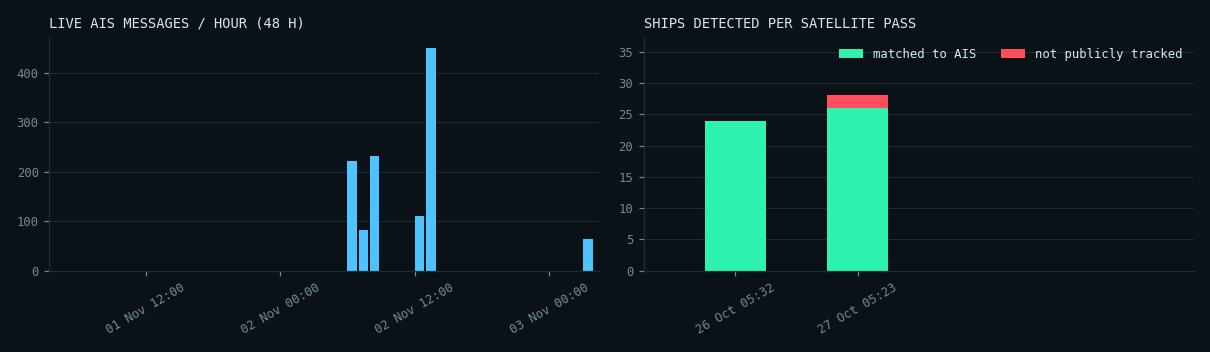
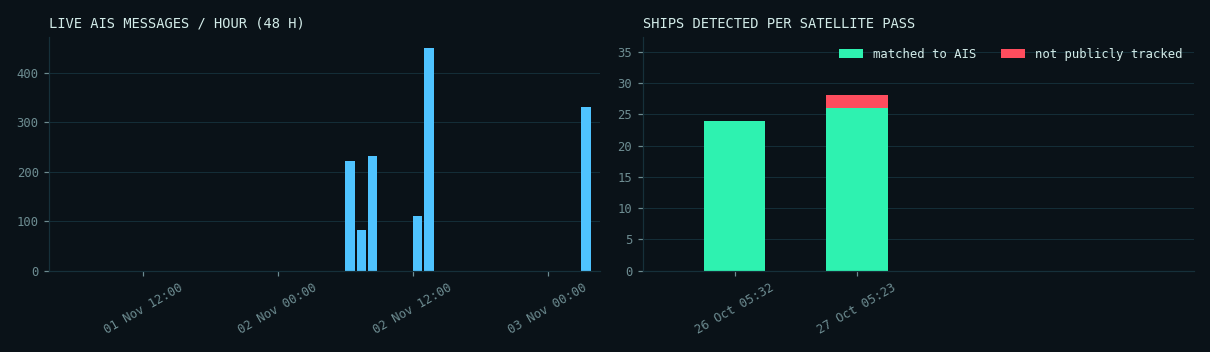
Automatic site update 2026-11-03 03:39 UTC

diff --git a/docs/denmark/index.html b/docs/denmark/index.html
@@ -83,13 +83,13 @@ footer{border-top:1px solid var(--line);padding:18px 0 28px;font:12px/1.6 var(--
   <div><div class="kicker">SAR &times; AIS &middot; MARITIME AWARENESS</div><div class="title">DARK VESSEL <b>DETECTION</b></div></div></a>
  <div class="status"><span class="pill"><span class="dot live"></span>AIS FEED <strong>LIVE</strong></span>
   <span class="pill">UTC <strong id="utc">--:--:--</strong></span>
-  <span class="pill">UPDATED <strong>03 Nov 03:26</strong></span></div>
+  <span class="pill">UPDATED <strong>03 Nov 03:40</strong></span></div>
 </div><nav class="tabs"><a class="" href="../index.html">OVERVIEW</a><a class="" href="../mumbai/index.html">MUMBAI</a><a class="on" href="../denmark/index.html">DENMARK</a><a class="" href="../nn/index.html">NEURAL NET</a><a class="" href="../demo/index.html">SIMULATION</a></nav></div></header>
 <main class="wrap"><div class="coords">SECTOR // DENMARK &middot; 55.55&ndash;55.85&deg;N &middot; 12.55&ndash;12.95&deg;E</div>
 <h1>Oresund, Copenhagen (Denmark/Sweden)</h1><p class="lede">Validation area. Sentinel-1 images it almost daily and coastal AIS coverage is dense, so the full match between radar and AIS can be shown and checked.</p>
 <div class="grid">
- <div class="panel"><div class="label">Live AIS feed</div><div class="value small"><span class='ok'>RECEIVING</span></div><div class="muted mono" style="font-size:12px;margin-top:6px">last message 1 min ago</div></div>
- <div class="panel"><div class="label">Ships broadcasting &middot; 30 min</div><div class="value cyan">31</div></div>
+ <div class="panel"><div class="label">Live AIS feed</div><div class="value small"><span class='ok'>RECEIVING</span></div><div class="muted mono" style="font-size:12px;margin-top:6px">last message 0 min ago</div></div>
+ <div class="panel"><div class="label">Ships broadcasting &middot; 30 min</div><div class="value cyan">58</div></div>
  <div class="panel"><div class="label">Matched &middot; latest pass</div><div class="value ">26</div></div>
  <div class="panel"><div class="label">Not tracked &middot; high confidence</div><div class="value red">0</div></div>
  <div class="panel"><div class="label">Not tracked &middot; low confidence</div><div class="value amber">2</div></div>
@@ -98,7 +98,7 @@ footer{border-top:1px solid var(--line);padding:18px 0 28px;font:12px/1.6 var(--
 <div class="legend"><span><i style="background:var(--green)"></i>matched to AIS</span><span><i style="background:var(--red)"></i>not tracked &middot; high confidence</span>
 <span><i style="background:var(--amber)"></i>not tracked &middot; low confidence</span><span><i style="background:var(--cyan)"></i>live AIS position</span></div>
 <div id="map" class="map"></div><script>
-const D=[{"lon": 12.574560869565218, "lat": 55.849597826086956, "length_m": 72.681575622935, "score": 0.6554655519501138, "shore_km": 0.14150886088341372, "status": "matched", "reason": "", "confidence": "high", "crop": "", "ship_prob": 0.9335045218467712}, {"lon": 12.704759174311928, "lat": 55.82280412844037, "length_m": 364.1071436957287, "score": 0.9904753373251979, "shore_km": 9.407061429825474, "status": "matched", "reason": "", "confidence": "high", "crop": "", "ship_prob": 0.9868959784507751}, {"lon": 12.786416463414636, "lat": 55.804669512195126, "length_m": 155.0522474362954, "score": 0.9999646038759398, "shore_km": 4.658419014138412, "status": "matched", "reason": "", "confidence": "high", "crop": "", "ship_prob": 0.9993557333946228}, {"lon": 12.88229375, "lat": 55.849146875, "length_m": 53.38783327710226, "score": 0.9899546194309776, "shore_km": 0.9067240720863213, "status": "candidate", "reason": "same_spot_in_another_pass", "confidence": "low", "crop": "crops/S1-Oresund-20261027_37.png", "ship_prob": 0.7905591130256653}, {"lon": 12.604004166666668, "lat": 55.75985, "length_m": 141.84238362073958, "score": 0.6867268898684522, "shore_km": 0.07168283192738693, "status": "matched", "reason": "", "confidence": "high", "crop": "", "ship_prob": 0.5051270127296448}, {"lon": 12.605736764705883, "lat": 55.75241323529412, "length_m": 122.11483240811877, "score": 0.9136889320646264, "shore_km": 0.6454382429486746, "status": "candidate", "reason": "same_spot_in_another_pass", "confidence": "low", "crop": "crops/S1-Oresund-20261027_77.png", "ship_prob": 0.7927113175392151}, {"lon": 12.703722571428573, "lat": 55.77917742857143, "length_m": 223.0817648726515, "score": 0.9996320924909895, "shore_km": 5.943270442766068, "status": "matched", "reason": "", "confidence": "high", "crop": "", "ship_prob": 0.9938097596168518}, {"lon": 12.902757692307693, "lat": 55.75654230769231, "length_m": 65.46226537445588, "score": 0.7187896049600956, "shore_km": 0.03584141596369347, "status": "matched", "reason": "", "confidence": "high", "crop": "", "ship_prob": 0.8691755533218384}, {"lon": 12.589922222222222, "lat": 55.725764814814816, "length_m": 146.45480845096748, "score": 0.9957587025210503, "shore_km": 0.034771280891766385, "status": "matched", "reason": "", "confidence": "high", "crop": "", "ship_prob": 0.9983701109886169}, {"lon": 12.598472047244096, "lat": 55.72077913385827, "length_m": 207.62671185403417, "score": 0.609772230082722, "shore_km": 0.14016751439395445, "status": "matched", "reason": "", "confidence": "high", "crop": "", "ship_prob": 0.6074324250221252}, {"lon": 12.589218, "lat": 55.712854, "length_m": 90.49550243938293, "score": 0.6486089656085543, "shore_km": 0.043464101114707984, "status": "matched", "reason": "", "confidence": "high", "crop": "", "ship_prob": 0.9998902082443237}, {"lon": 12.59024090909091, "lat": 55.71147090909091, "length_m": 162.54265478639104, "score": 1.0, "shore_km": 0.06146752127277559, "status": "matched", "reason": "", "confidence": "high", "crop": "", "ship_prob": 0.9999992847442627}, {"lon": 12.597835937500001, "lat": 55.701648437500005, "length_m": 133.31776511703256, "score": 0.9396217092764791, "shore_km": 0.06789309632894441, "status": "matched", "reason": "", "confidence": "high", "crop": "", "ship_prob": 0.9999727010726929}, {"lon": 12.60914, "lat": 55.69712, "length_m": 65.36743236464424, "score": 0.7827588237578229, "shore_km": 0.03134240904220623, "status": "matched", "reason": "", "confidence": "high", "crop": "", "ship_prob": 0.9867132902145386}, {"lon": 12.668552272727274, "lat": 55.72007840909091, "length_m": 207.26605497726354, "score": 0.6251792307103263, "shore_km": 0.03584141596369347, "status": "matched", "reason": "", "confidence": "high", "crop": "", "ship_prob": 0.9087074398994446}, {"lon": 12.5996, "lat": 55.68885, "length_m": 40.00855981470757, "score": 0.7664068666153926, "shore_km": 0.024587008509110237, "status": "matched", "reason": "", "confidence": "high", "crop": "", "ship_prob": 0.9766618013381958}, {"lon": 12.595819230769232, "lat": 55.67989871794872, "length_m": 127.62371588738732, "score": 0.9426870407335851, "shore_km": 0.05068741655051085, "status": "matched", "reason": "", "confidence": "high", "crop": "", "ship_prob": 0.9998841285705566}, {"lon": 12.594722222222224, "lat": 55.67918888888889, "length_m": 40.64467714079742, "score": 0.7639524834029205, "shore_km": 0.043464101114707984, "status": "matched", "reason": "", "confidence": "high", "crop": "", "ship_prob": 0.9999454021453857}, {"lon": 12.610660714285714, "lat": 55.69618571428572, "length_m": 94.51225356515693, "score": 0.9621795096736379, "shore_km": 0.03134240904220623, "status": "matched", "reason": "", "confidence": "high", "crop": "", "ship_prob": 0.999042809009552}, {"lon": 12.649045000000001, "lat": 55.692155, "length_m": 80.63364746000343, "score": 0.8515033668168979, "shore_km": 0.8863693295037299, "status": "matched", "reason": "", "confidence": "high", "crop": "", "ship_prob": 0.4333752989768982}, {"lon": 12.630751724137932, "lat": 55.685453448275865, "length_m": 125.00287123881988, "score": 0.93629426700422, "shore_km": 0.043464101114707984, "status": "matched", "reason": "", "confidence": "high", "crop": "", "ship_prob": 0.9975905418395996}, {"lon": 12.634987254901962, "lat": 55.677338235294116, "length_m": 276.5478352749318, "score": 0.7686103584091717, "shore_km": 0.024587008509110237, "status": "matched", "reason": "", "confidence": "high", "crop": "", "ship_prob": 0.9729636907577515}, {"lon": 12.68766150442478, "lat": 55.69581814159292, "length_m": 176.8074930452176, "score": 0.923202226335388, "shore_km": 2.6834920471942074, "status": "matched", "reason": "", "confidence": "high", "crop": "", "ship_prob": 0.8427141904830933}, {"lon": 12.65826847826087, "lat": 55.63610108695652, "length_m": 174.21377549767067, "score": 0.9833187000337672, "shore_km": 0.043464101114707984, "status": "matched", "reason": "", "confidence": "high", "crop": "", "ship_prob": 0.9998973608016968}, {"lon": 12.680683333333334, "lat": 55.610910000000004, "length_m": 74.22790892756812, "score": 0.6314184609397504, "shore_km": 0.03134240904220623, "status": "matched", "reason": "", "confidence": "high", "crop": "", "ship_prob": 0.44054293632507324}, {"lon": 12.868352132196163, "lat": 55.60022420042644, "length_m": 299.20726350177785, "score": 0.9999960398718075, "shore_km": 2.8169298200726325, "status": "matched", "reason": "", "confidence": "high", "crop": "", "ship_prob": 0.9967911839485168}, {"lon": 12.680875, "lat": 55.59323, "length_m": 95.51211981545671, "score": 0.7585723176580392, "shore_km": 0.03584141596369347, "status": "matched", "reason": "", "confidence": "high", "crop": "", "ship_prob": 0.797581672668457}, {"lon": 12.706387741935485, "lat": 55.56306903225806, "length_m": 301.4640427512081, "score": 0.9999731380181186, "shore_km": 3.1965238712919084, "status": "matched", "reason": "", "confidence": "high", "crop": "", "ship_prob": 0.9941650032997131}],LIVE=[{"lon": 12.634895, "lat": 55.68713833333334, "sog": 0.0, "age": 5}, {"lon": 12.691875000000001, "lat": 55.52271, "sog": 9.5, "age": 5}, {"lon": 12.64745, "lat": 55.6769, "sog": 0.0, "age": 5}, {"lon": 12.892163333333334, "lat": 55.523723333333336, "sog": 0.0, "age": 5}, {"lon": 12.676278333333332, "lat": 55.93195333333333, "sog": 0.0, "age": 4}, {"lon": 12.633381666666667, "lat": 55.98496, "sog": 9.7, "age": 4}, {"lon": 12.603533333333333, "lat": 55.760598333333334, "sog": 0.0, "age": 4}, {"lon": 12.744448333333334, "lat": 55.993298333333335, "sog": 0.0, "age": 3}, {"lon": 12.82485, "lat": 55.8659, "sog": 0.0, "age": 3}, {"lon": 12.687864999999999, "lat": 55.70601333333333, "sog": 9.5, "age": 3}, {"lon": 12.634103333333334, "lat": 55.67577166666667, "sog": 0.0, "age": 3}, {"lon": 12.68303, "lat": 55.466568333333335, "sog": 11.2, "age": 3}, {"lon": 12.823559999999999, "lat": 55.86789, "sog": 0.0, "age": 2}, {"lon": 12.675786666666665, "lat": 55.44730333333334, "sog": 11.4, "age": 2}, {"lon": 12.482476666666667, "lat": 55.601416666666665, "sog": 0.0, "age": 2}, {"lon": 12.625328333333332, "lat": 55.691068333333334, "sog": 0.0, "age": 2}, {"lon": 12.683703333333334, "lat": 55.70784166666667, "sog": 10.3, "age": 2}, {"lon": 12.997251666666667, "lat": 55.613773333333334, "sog": 0.0, "age": 2}, {"lon": 12.850786666666666, "lat": 55.85891, "sog": 0.0, "age": 2}, {"lon": 12.929808333333334, "lat": 55.66486666666666, "sog": 9.7, "age": 2}, {"lon": 12.70526, "lat": 55.73806666666667, "sog": 5.7, "age": 2}, {"lon": 13.058503333333334, "lat": 55.675665, "sog": 0.0, "age": 2}, {"lon": 12.664046666666668, "lat": 55.720025, "sog": 0.0, "age": 1}, {"lon": 12.828268333333334, "lat": 55.86163833333333, "sog": 0.0, "age": 1}, {"lon": 12.903485, "lat": 55.75664166666666, "sog": 0.1, "age": 1}, {"lon": 12.689293333333334, "lat": 55.76340666666667, "sog": 11.1, "age": 1}, {"lon": 12.680175, "lat": 55.592835, "sog": 0.0, "age": 1}, {"lon": 12.572740000000001, "lat": 55.850836666666666, "sog": 0.0, "age": 0}, {"lon": 12.676115000000001, "lat": 55.59364333333333, "sog": 0.0, "age": 0}, {"lon": 12.744431666666665, "lat": 55.993219999999994, "sog": 0.0, "age": 0}, {"lon": 12.676883333333334, "lat": 55.59395333333334, "sog": 0.0, "age": 0}],B=[[55.55,12.55],[55.85,12.95]];const m=L.map('map',{zoomSnap:.25}).fitBounds(B);
+const D=[{"lon": 12.574560869565218, "lat": 55.849597826086956, "length_m": 72.681575622935, "score": 0.6554655519501138, "shore_km": 0.14150886088341372, "status": "matched", "reason": "", "confidence": "high", "crop": "", "ship_prob": 0.9335045218467712}, {"lon": 12.704759174311928, "lat": 55.82280412844037, "length_m": 364.1071436957287, "score": 0.9904753373251979, "shore_km": 9.407061429825474, "status": "matched", "reason": "", "confidence": "high", "crop": "", "ship_prob": 0.9868959784507751}, {"lon": 12.786416463414636, "lat": 55.804669512195126, "length_m": 155.0522474362954, "score": 0.9999646038759398, "shore_km": 4.658419014138412, "status": "matched", "reason": "", "confidence": "high", "crop": "", "ship_prob": 0.9993557333946228}, {"lon": 12.88229375, "lat": 55.849146875, "length_m": 53.38783327710226, "score": 0.9899546194309776, "shore_km": 0.9067240720863213, "status": "candidate", "reason": "same_spot_in_another_pass", "confidence": "low", "crop": "crops/S1-Oresund-20261027_37.png", "ship_prob": 0.7905591130256653}, {"lon": 12.604004166666668, "lat": 55.75985, "length_m": 141.84238362073958, "score": 0.6867268898684522, "shore_km": 0.07168283192738693, "status": "matched", "reason": "", "confidence": "high", "crop": "", "ship_prob": 0.5051270127296448}, {"lon": 12.605736764705883, "lat": 55.75241323529412, "length_m": 122.11483240811877, "score": 0.9136889320646264, "shore_km": 0.6454382429486746, "status": "candidate", "reason": "same_spot_in_another_pass", "confidence": "low", "crop": "crops/S1-Oresund-20261027_77.png", "ship_prob": 0.7927113175392151}, {"lon": 12.703722571428573, "lat": 55.77917742857143, "length_m": 223.0817648726515, "score": 0.9996320924909895, "shore_km": 5.943270442766068, "status": "matched", "reason": "", "confidence": "high", "crop": "", "ship_prob": 0.9938097596168518}, {"lon": 12.902757692307693, "lat": 55.75654230769231, "length_m": 65.46226537445588, "score": 0.7187896049600956, "shore_km": 0.03584141596369347, "status": "matched", "reason": "", "confidence": "high", "crop": "", "ship_prob": 0.8691755533218384}, {"lon": 12.589922222222222, "lat": 55.725764814814816, "length_m": 146.45480845096748, "score": 0.9957587025210503, "shore_km": 0.034771280891766385, "status": "matched", "reason": "", "confidence": "high", "crop": "", "ship_prob": 0.9983701109886169}, {"lon": 12.598472047244096, "lat": 55.72077913385827, "length_m": 207.62671185403417, "score": 0.609772230082722, "shore_km": 0.14016751439395445, "status": "matched", "reason": "", "confidence": "high", "crop": "", "ship_prob": 0.6074324250221252}, {"lon": 12.589218, "lat": 55.712854, "length_m": 90.49550243938293, "score": 0.6486089656085543, "shore_km": 0.043464101114707984, "status": "matched", "reason": "", "confidence": "high", "crop": "", "ship_prob": 0.9998902082443237}, {"lon": 12.59024090909091, "lat": 55.71147090909091, "length_m": 162.54265478639104, "score": 1.0, "shore_km": 0.06146752127277559, "status": "matched", "reason": "", "confidence": "high", "crop": "", "ship_prob": 0.9999992847442627}, {"lon": 12.597835937500001, "lat": 55.701648437500005, "length_m": 133.31776511703256, "score": 0.9396217092764791, "shore_km": 0.06789309632894441, "status": "matched", "reason": "", "confidence": "high", "crop": "", "ship_prob": 0.9999727010726929}, {"lon": 12.60914, "lat": 55.69712, "length_m": 65.36743236464424, "score": 0.7827588237578229, "shore_km": 0.03134240904220623, "status": "matched", "reason": "", "confidence": "high", "crop": "", "ship_prob": 0.9867132902145386}, {"lon": 12.668552272727274, "lat": 55.72007840909091, "length_m": 207.26605497726354, "score": 0.6251792307103263, "shore_km": 0.03584141596369347, "status": "matched", "reason": "", "confidence": "high", "crop": "", "ship_prob": 0.9087074398994446}, {"lon": 12.5996, "lat": 55.68885, "length_m": 40.00855981470757, "score": 0.7664068666153926, "shore_km": 0.024587008509110237, "status": "matched", "reason": "", "confidence": "high", "crop": "", "ship_prob": 0.9766618013381958}, {"lon": 12.595819230769232, "lat": 55.67989871794872, "length_m": 127.62371588738732, "score": 0.9426870407335851, "shore_km": 0.05068741655051085, "status": "matched", "reason": "", "confidence": "high", "crop": "", "ship_prob": 0.9998841285705566}, {"lon": 12.594722222222224, "lat": 55.67918888888889, "length_m": 40.64467714079742, "score": 0.7639524834029205, "shore_km": 0.043464101114707984, "status": "matched", "reason": "", "confidence": "high", "crop": "", "ship_prob": 0.9999454021453857}, {"lon": 12.610660714285714, "lat": 55.69618571428572, "length_m": 94.51225356515693, "score": 0.9621795096736379, "shore_km": 0.03134240904220623, "status": "matched", "reason": "", "confidence": "high", "crop": "", "ship_prob": 0.999042809009552}, {"lon": 12.649045000000001, "lat": 55.692155, "length_m": 80.63364746000343, "score": 0.8515033668168979, "shore_km": 0.8863693295037299, "status": "matched", "reason": "", "confidence": "high", "crop": "", "ship_prob": 0.4333752989768982}, {"lon": 12.630751724137932, "lat": 55.685453448275865, "length_m": 125.00287123881988, "score": 0.93629426700422, "shore_km": 0.043464101114707984, "status": "matched", "reason": "", "confidence": "high", "crop": "", "ship_prob": 0.9975905418395996}, {"lon": 12.634987254901962, "lat": 55.677338235294116, "length_m": 276.5478352749318, "score": 0.7686103584091717, "shore_km": 0.024587008509110237, "status": "matched", "reason": "", "confidence": "high", "crop": "", "ship_prob": 0.9729636907577515}, {"lon": 12.68766150442478, "lat": 55.69581814159292, "length_m": 176.8074930452176, "score": 0.923202226335388, "shore_km": 2.6834920471942074, "status": "matched", "reason": "", "confidence": "high", "crop": "", "ship_prob": 0.8427141904830933}, {"lon": 12.65826847826087, "lat": 55.63610108695652, "length_m": 174.21377549767067, "score": 0.9833187000337672, "shore_km": 0.043464101114707984, "status": "matched", "reason": "", "confidence": "high", "crop": "", "ship_prob": 0.9998973608016968}, {"lon": 12.680683333333334, "lat": 55.610910000000004, "length_m": 74.22790892756812, "score": 0.6314184609397504, "shore_km": 0.03134240904220623, "status": "matched", "reason": "", "confidence": "high", "crop": "", "ship_prob": 0.44054293632507324}, {"lon": 12.868352132196163, "lat": 55.60022420042644, "length_m": 299.20726350177785, "score": 0.9999960398718075, "shore_km": 2.8169298200726325, "status": "matched", "reason": "", "confidence": "high", "crop": "", "ship_prob": 0.9967911839485168}, {"lon": 12.680875, "lat": 55.59323, "length_m": 95.51211981545671, "score": 0.7585723176580392, "shore_km": 0.03584141596369347, "status": "matched", "reason": "", "confidence": "high", "crop": "", "ship_prob": 0.797581672668457}, {"lon": 12.706387741935485, "lat": 55.56306903225806, "length_m": 301.4640427512081, "score": 0.9999731380181186, "shore_km": 3.1965238712919084, "status": "matched", "reason": "", "confidence": "high", "crop": "", "ship_prob": 0.9941650032997131}],LIVE=[{"lon": 12.634895, "lat": 55.68713833333334, "sog": 0.0, "age": 19}, {"lon": 12.603533333333333, "lat": 55.760598333333334, "sog": 0.0, "age": 18}, {"lon": 12.82485, "lat": 55.8659, "sog": 0.0, "age": 17}, {"lon": 12.823559999999999, "lat": 55.86789, "sog": 0.0, "age": 16}, {"lon": 12.850786666666666, "lat": 55.85891, "sog": 0.0, "age": 16}, {"lon": 12.828268333333334, "lat": 55.86163833333333, "sog": 0.0, "age": 15}, {"lon": 12.680175, "lat": 55.592835, "sog": 0.0, "age": 15}, {"lon": 13.033333333333333, "lat": 55.624408333333335, "sog": 0.0, "age": 11}, {"lon": 12.82762, "lat": 55.86275333333333, "sog": 0.0, "age": 10}, {"lon": 12.832901666666666, "lat": 55.85850666666667, "sog": 0.0, "age": 9}, {"lon": 12.729261666666668, "lat": 55.97908833333334, "sog": 0.0, "age": 8}, {"lon": 13.035141666666668, "lat": 55.624698333333335, "sog": 0.1, "age": 8}, {"lon": 12.59298, "lat": 55.679271666666665, "sog": 0.0, "age": 7}, {"lon": 12.926993333333334, "lat": 55.641331666666666, "sog": 9.8, "age": 6}, {"lon": 12.488241666666665, "lat": 55.51765666666667, "sog": 0.0, "age": 6}, {"lon": 12.676113333333332, "lat": 55.593626666666665, "sog": 0.0, "age": 5}, {"lon": 12.572714999999999, "lat": 55.850825, "sog": 0.0, "age": 5}, {"lon": 12.663706666666666, "lat": 55.412910000000004, "sog": 11.5, "age": 5}, {"lon": 12.634113333333334, "lat": 55.675765, "sog": 0.0, "age": 5}, {"lon": 12.64749, "lat": 55.67688666666666, "sog": 0.0, "age": 5}, {"lon": 12.50164, "lat": 55.610798333333335, "sog": 0.0, "age": 4}, {"lon": 12.722695, "lat": 55.90373, "sog": 0.0, "age": 4}, {"lon": 12.835308333333334, "lat": 55.85991333333333, "sog": 0.0, "age": 4}, {"lon": 12.713081666666666, "lat": 55.825606666666665, "sog": 12.6, "age": 4}, {"lon": 12.634588333333333, "lat": 55.94622666666667, "sog": 9.9, "age": 4}, {"lon": 12.599043333333332, "lat": 55.689051666666664, "sog": 0.0, "age": 3}, {"lon": 12.692858333333334, "lat": 55.74205666666667, "sog": 8.9, "age": 3}, {"lon": 12.729696666666666, "lat": 55.75160833333334, "sog": 0.0, "age": 3}, {"lon": 12.997346666666665, "lat": 55.613663333333335, "sog": 0.1, "age": 3}, {"lon": 12.630765, "lat": 55.689825000000006, "sog": 0.0, "age": 2}, {"lon": 12.666988333333334, "lat": 55.422645, "sog": 11.3, "age": 2}, {"lon": 12.63538, "lat": 55.676458333333336, "sog": 0.0, "age": 2}, {"lon": 12.625273333333332, "lat": 55.69106166666666, "sog": 0.0, "age": 2}, {"lon": 12.646908333333332, "lat": 55.677366666666664, "sog": 0.0, "age": 2}, {"lon": 12.594968333333332, "lat": 55.682469999999995, "sog": 0.0, "age": 2}, {"lon": 13.058503333333334, "lat": 55.675668333333334, "sog": 0.0, "age": 2}, {"lon": 12.665853333333333, "lat": 55.71981, "sog": 0.1, "age": 1}, {"lon": 12.684268333333334, "lat": 55.68113166666667, "sog": 10.1, "age": 1}, {"lon": 12.744438333333333, "lat": 55.993233333333336, "sog": 0.0, "age": 1}, {"lon": 12.744435000000001, "lat": 55.99329, "sog": 0.0, "age": 1}, {"lon": 12.664033333333332, "lat": 55.72002833333333, "sog": 0.0, "age": 1}, {"lon": 12.681133333333333, "lat": 55.72036333333333, "sog": 11.1, "age": 1}, {"lon": 12.892181666666666, "lat": 55.52372666666667, "sog": 0.0, "age": 1}, {"lon": 12.67652, "lat": 55.931900000000006, "sog": 0.0, "age": 1}, {"lon": 12.687466666666667, "lat": 55.47317833333333, "sog": 9.8, "age": 0}, {"lon": 12.987671666666667, "lat": 55.62129166666667, "sog": 12.6, "age": 0}, {"lon": 13.033835, "lat": 55.624585, "sog": 0.0, "age": 0}, {"lon": 12.714868333333333, "lat": 55.76176666666667, "sog": 5.6, "age": 0}, {"lon": 12.90349, "lat": 55.75664666666667, "sog": 0.1, "age": 0}, {"lon": 12.68008, "lat": 55.59289166666667, "sog": 0.0, "age": 0}, {"lon": 12.680456666666666, "lat": 55.61125166666667, "sog": 0.0, "age": 0}, {"lon": 12.830421666666666, "lat": 55.85599666666667, "sog": 0.0, "age": 0}, {"lon": 12.482441666666666, "lat": 55.601416666666665, "sog": 0.0, "age": 0}, {"lon": 12.690488333333333, "lat": 55.75389500000001, "sog": 10.3, "age": 0}, {"lon": 12.676943333333332, "lat": 55.593995, "sog": 0.0, "age": 0}, {"lon": 12.823658333333332, "lat": 55.866398333333336, "sog": 0.0, "age": 0}, {"lon": 12.593525, "lat": 55.679175, "sog": 0.0, "age": 0}, {"lon": 12.831928333333334, "lat": 55.85404166666667, "sog": 0.0, "age": 0}],B=[[55.55,12.55],[55.85,12.95]];const m=L.map('map',{zoomSnap:.25}).fitBounds(B);
 // re-fit once layout has settled: if the container had no size when the map was created, Leaflet falls back to zoom 0
 const refit=()=>{m.invalidateSize();m.fitBounds(B);};setTimeout(refit,0);window.addEventListener('load',refit);
 // standard OSM tiles (no API key), turned into a dark "radar console" basemap with a CSS filter (.radar-tiles)
@@ -116,8 +116,8 @@ L.control.layers(null,{'Radar detections (selected pass)':det,'Live AIS, last 30
 </script>
 <h2>Pass log</h2><div class='tablewrap'><table><thead><tr><th>pass (UTC)</th><th>ships</th><th>matched</th><th>not tracked</th><th>low conf.</th><th>match rate</th><th>AIS msgs</th></tr></thead><tbody><tr><td>2026-10-27 05:23 UTC</td><td>28</td><td class='ok'>26</td><td class='bad'>0</td><td style='color:var(--amber)'>2</td><td>93%</td><td>10687</td></tr><tr><td>2026-10-26 05:32 UTC</td><td>24</td><td class='ok'>24</td><td class='bad'>0</td><td style='color:var(--amber)'>0</td><td>100%</td><td>11603</td></tr></tbody></table></div>
 <h2>Telemetry</h2><img class="chart" src="charts.png" alt="AIS messages per hour and ships detected per pass">
-<p class="muted mono" style="font-size:12px">Feed gaps in the last 24 h: 6 (1137 min) &middot; AIS messages in the last hour: 65</p>
-<h2>Recent Sentinel-1 acquisitions</h2><ul class="acq"><li>catalogue unavailable</li></ul></main>
+<p class="muted mono" style="font-size:12px">Feed gaps in the last 24 h: 8 (1142 min) &middot; AIS messages in the last hour: 330</p>
+<h2>Recent Sentinel-1 acquisitions</h2><ul class="acq"><li>2026-11-02 05:23 UTC</li><li>2026-11-01 16:44 UTC</li><li>2026-11-01 05:31 UTC</li><li>2026-10-31 16:52 UTC</li><li>2026-10-30 17:00 UTC</li><li>2026-10-27 05:23 UTC</li><li>2026-10-26 05:32 UTC</li><li>2026-10-25 16:52 UTC</li></ul></main>
 <footer><div class="wrap">Data: Copernicus Sentinel-1 (ESA) &middot; AIS via aisstream.io and the Danish Maritime Authority &middot;
 coastlines, structures and basemap &copy; OpenStreetMap contributors. Flags are candidates for review, not accusations.</div></footer>
 <script>(function(){const e=document.getElementById('utc');const t=()=>e.textContent=new Date().toISOString().slice(11,19);t();setInterval(t,1000);})();</script>

diff --git a/docs/index.html b/docs/index.html
@@ -83,7 +83,7 @@ footer{border-top:1px solid var(--line);padding:18px 0 28px;font:12px/1.6 var(--
   <div><div class="kicker">SAR &times; AIS &middot; MARITIME AWARENESS</div><div class="title">DARK VESSEL <b>DETECTION</b></div></div></a>
  <div class="status"><span class="pill"><span class="dot live"></span>AIS FEED <strong>LIVE</strong></span>
   <span class="pill">UTC <strong id="utc">--:--:--</strong></span>
-  <span class="pill">UPDATED <strong>03 Nov 03:26</strong></span></div>
+  <span class="pill">UPDATED <strong>03 Nov 03:40</strong></span></div>
 </div><nav class="tabs"><a class="on" href="index.html">OVERVIEW</a><a class="" href="mumbai/index.html">MUMBAI</a><a class="" href="denmark/index.html">DENMARK</a><a class="" href="nn/index.html">NEURAL NET</a><a class="" href="demo/index.html">SIMULATION</a></nav></div></header>
 <main class="wrap"><div class="coords">SYSTEM OVERVIEW</div>
 <h1>Ships the radar sees that nobody is tracking</h1>
@@ -91,7 +91,7 @@ footer{border-top:1px solid var(--line);padding:18px 0 28px;font:12px/1.6 var(--
 This system compares the two for each processed Sentinel-1 pass and lists the ships that appear on radar with no matching AIS signal.</p>
 <div class="grid" style="margin-top:18px"><div class="panel"><div class="label">Satellite passes processed</div><div class="value ">3</div></div><div class="panel"><div class="label">Ships matched to AIS</div><div class="value ">50</div></div>
 <div class="panel"><div class="label">Not tracked &middot; high confidence</div><div class="value red">0</div></div><div class="panel"><div class="label">Not tracked &middot; low confidence</div><div class="value amber">117</div></div>
-<div class="panel"><div class="label">Broadcasting now &middot; 30 min</div><div class="value cyan">31</div></div></div>
+<div class="panel"><div class="label">Broadcasting now &middot; 30 min</div><div class="value cyan">58</div></div></div>
 <p class="muted" style="font-size:13px;margin-top:10px"><b>High confidence</b> = no AIS ship nearby although the AIS feed was healthy and the
 target is within receiver range, and it is not at a spot where something was also seen on another pass. Everything else is
 <b>low confidence</b>: the data cannot support calling it dark (for example Mumbai, where no AIS was available for the pass at all).</p>
@@ -114,14 +114,14 @@ same pipeline using historical AIS. Next expected passes: Mumbai about 5 Nov 01:
 <div class="kv"><span>ships matched to AIS</span><span class="ok">50</span></div>
 <div class="kv"><span>not tracked, high confidence</span><span class="bad">0</span></div>
 <div class="kv"><span>not tracked, low confidence</span><span style="color:var(--amber)">2</span></div>
-<div class="kv"><span>broadcasting now (30 min)</span><span style="color:var(--cyan)">31</span></div>
+<div class="kv"><span>broadcasting now (30 min)</span><span style="color:var(--cyan)">58</span></div>
 <div class="go">OPEN SECTOR &rarr;</div></a></div>
 <h2>Read before trusting a flag</h2>
 <div class="alert"><b>"Not publicly tracked" is not "switched off".</b> Small boats often carry no public AIS, free AIS comes from coastal
 receivers with limited range, and ships under about 40 m are not reliably visible to the satellite. Low-confidence flags are the ones the
 data cannot support: beyond receiver range, during an AIS feed gap, or with no AIS recorded.</div>
 <h2>Automatic runs</h2><p class="muted mono" style="font-size:12.5px;margin-top:-4px">Each row is one automatic website rebuild, with the live AIS counts at that moment. Newest first.</p>
-<div class="tablewrap"><table><thead><tr><th>run (UTC)</th><th>mumbai live</th><th>mumbai msg/h</th><th>denmark live</th><th>denmark msg/h</th></tr></thead><tbody><tr><td>2026-11-03 03:26</td><td>0</td><td>0</td><td>31</td><td>65</td></tr><tr><td>2026-11-03 03:24</td><td>0</td><td>0</td><td>27</td><td>52</td></tr><tr><td>2026-11-02 13:37</td><td>0</td><td>0</td><td>68</td><td>479</td></tr><tr><td>2026-11-02 13:34</td><td>0</td><td>0</td><td>68</td><td>448</td></tr><tr><td>2026-11-02 13:21</td><td>0</td><td>0</td><td>63</td><td>313</td></tr><tr><td>2026-11-02 13:05</td><td>0</td><td>0</td><td>62</td><td>160</td></tr><tr><td>2026-11-02 12:58</td><td>0</td><td>0</td><td>50</td><td>96</td></tr><tr><td>2026-11-02 12:42</td><td>0</td><td>0</td><td>9</td><td>9</td></tr><tr><td>2026-11-02 08:09</td><td>0</td><td>0</td><td>62</td><td>171</td></tr><tr><td>2026-11-02 07:53</td><td>0</td><td>0</td><td>19</td><td>49</td></tr><tr><td>2026-11-02 07:39</td><td>0</td><td>0</td><td>0</td><td>166</td></tr><tr><td>2026-11-02 07:27</td><td>0</td><td>0</td><td>0</td><td>222</td></tr><tr><td>2026-11-02 06:48</td><td>0</td><td>0</td><td>58</td><td>148</td></tr><tr><td>2026-11-02 06:33</td><td>0</td><td>0</td><td>5</td><td>6</td></tr><tr><td>2026-11-02 06:29</td><td>0</td><td>0</td><td>0</td><td>0</td></tr><tr><td>2026-11-02 06:25</td><td>0</td><td>0</td><td>0</td><td>0</td></tr><tr><td>2026-11-02 06:20</td><td>0</td><td>0</td><td>0</td><td>0</td></tr><tr><td>2026-11-02 06:10</td><td>0</td><td>0</td><td>0</td><td>0</td></tr><tr><td>2026-11-02 05:55</td><td>0</td><td>0</td><td>36</td><td>341</td></tr><tr><td>2026-11-02 05:40</td><td>0</td><td>0</td><td>38</td><td>353</td></tr><tr><td>2026-11-02 05:24</td><td>0</td><td>0</td><td>35</td><td>311</td></tr><tr><td>2026-11-02 05:09</td><td>0</td><td>0</td><td>36</td><td>222</td></tr><tr><td>2026-11-02 04:54</td><td>0</td><td>0</td><td>36</td><td>144</td></tr><tr><td>2026-11-02 04:50</td><td>0</td><td>0</td><td>33</td><td>110</td></tr></tbody></table></div></main>
+<div class="tablewrap"><table><thead><tr><th>run (UTC)</th><th>mumbai live</th><th>mumbai msg/h</th><th>denmark live</th><th>denmark msg/h</th></tr></thead><tbody><tr><td>2026-11-03 03:40</td><td>0</td><td>0</td><td>58</td><td>330</td></tr><tr><td>2026-11-03 03:26</td><td>0</td><td>0</td><td>31</td><td>65</td></tr><tr><td>2026-11-03 03:24</td><td>0</td><td>0</td><td>27</td><td>52</td></tr><tr><td>2026-11-02 13:37</td><td>0</td><td>0</td><td>68</td><td>479</td></tr><tr><td>2026-11-02 13:34</td><td>0</td><td>0</td><td>68</td><td>448</td></tr><tr><td>2026-11-02 13:21</td><td>0</td><td>0</td><td>63</td><td>313</td></tr><tr><td>2026-11-02 13:05</td><td>0</td><td>0</td><td>62</td><td>160</td></tr><tr><td>2026-11-02 12:58</td><td>0</td><td>0</td><td>50</td><td>96</td></tr><tr><td>2026-11-02 12:42</td><td>0</td><td>0</td><td>9</td><td>9</td></tr><tr><td>2026-11-02 08:09</td><td>0</td><td>0</td><td>62</td><td>171</td></tr><tr><td>2026-11-02 07:53</td><td>0</td><td>0</td><td>19</td><td>49</td></tr><tr><td>2026-11-02 07:39</td><td>0</td><td>0</td><td>0</td><td>166</td></tr><tr><td>2026-11-02 07:27</td><td>0</td><td>0</td><td>0</td><td>222</td></tr><tr><td>2026-11-02 06:48</td><td>0</td><td>0</td><td>58</td><td>148</td></tr><tr><td>2026-11-02 06:33</td><td>0</td><td>0</td><td>5</td><td>6</td></tr><tr><td>2026-11-02 06:29</td><td>0</td><td>0</td><td>0</td><td>0</td></tr><tr><td>2026-11-02 06:25</td><td>0</td><td>0</td><td>0</td><td>0</td></tr><tr><td>2026-11-02 06:20</td><td>0</td><td>0</td><td>0</td><td>0</td></tr><tr><td>2026-11-02 06:10</td><td>0</td><td>0</td><td>0</td><td>0</td></tr><tr><td>2026-11-02 05:55</td><td>0</td><td>0</td><td>36</td><td>341</td></tr><tr><td>2026-11-02 05:40</td><td>0</td><td>0</td><td>38</td><td>353</td></tr><tr><td>2026-11-02 05:24</td><td>0</td><td>0</td><td>35</td><td>311</td></tr><tr><td>2026-11-02 05:09</td><td>0</td><td>0</td><td>36</td><td>222</td></tr><tr><td>2026-11-02 04:54</td><td>0</td><td>0</td><td>36</td><td>144</td></tr></tbody></table></div></main>
 <footer><div class="wrap">Data: Copernicus Sentinel-1 (ESA) &middot; AIS via aisstream.io and the Danish Maritime Authority &middot;
 coastlines, structures and basemap &copy; OpenStreetMap contributors. Flags are candidates for review, not accusations.</div></footer>
 <script>(function(){const e=document.getElementById('utc');const t=()=>e.textContent=new Date().toISOString().slice(11,19);t();setInterval(t,1000);})();</script>

diff --git a/docs/mumbai/index.html b/docs/mumbai/index.html
@@ -83,7 +83,7 @@ footer{border-top:1px solid var(--line);padding:18px 0 28px;font:12px/1.6 var(--
   <div><div class="kicker">SAR &times; AIS &middot; MARITIME AWARENESS</div><div class="title">DARK VESSEL <b>DETECTION</b></div></div></a>
  <div class="status"><span class="pill"><span class="dot live"></span>AIS FEED <strong>LIVE</strong></span>
   <span class="pill">UTC <strong id="utc">--:--:--</strong></span>
-  <span class="pill">UPDATED <strong>03 Nov 03:26</strong></span></div>
+  <span class="pill">UPDATED <strong>03 Nov 03:39</strong></span></div>
 </div><nav class="tabs"><a class="" href="../index.html">OVERVIEW</a><a class="on" href="../mumbai/index.html">MUMBAI</a><a class="" href="../denmark/index.html">DENMARK</a><a class="" href="../nn/index.html">NEURAL NET</a><a class="" href="../demo/index.html">SIMULATION</a></nav></div></header>
 <main class="wrap"><div class="coords">SECTOR // MUMBAI &middot; 18.80&ndash;19.10&deg;N &middot; 72.55&ndash;72.95&deg;E</div>
 <h1>Mumbai coast and harbour, India</h1><p class="lede">The project's target area. Sentinel-1 images it about once every 12 days, and free AIS comes only from coastal receivers, so many unmatched ships here are simply out of receiver range.</p>
@@ -116,8 +116,8 @@ L.control.layers(null,{'Radar detections (selected pass)':det,'Live AIS, last 30
 </script>
 <h2>Pass log</h2><div class='tablewrap'><table><thead><tr><th>pass (UTC)</th><th>ships</th><th>matched</th><th>not tracked</th><th>low conf.</th><th>match rate</th><th>AIS msgs</th></tr></thead><tbody><tr><td>2026-10-24 01:02 UTC</td><td>115</td><td class='ok'>0</td><td class='bad'>0</td><td style='color:var(--amber)'>115</td><td>0%</td><td>0</td></tr></tbody></table></div>
 <h2>Telemetry</h2><img class="chart" src="charts.png" alt="AIS messages per hour and ships detected per pass">
-<p class="muted mono" style="font-size:12px">Feed gaps in the last 24 h: 6 (1137 min) &middot; AIS messages in the last hour: 0</p>
-<h2>Recent Sentinel-1 acquisitions</h2><ul class="acq"><li>catalogue unavailable</li></ul></main>
+<p class="muted mono" style="font-size:12px">Feed gaps in the last 24 h: 8 (1142 min) &middot; AIS messages in the last hour: 0</p>
+<h2>Recent Sentinel-1 acquisitions</h2><ul class="acq"><li>2026-10-24 01:02 UTC</li></ul></main>
 <footer><div class="wrap">Data: Copernicus Sentinel-1 (ESA) &middot; AIS via aisstream.io and the Danish Maritime Authority &middot;
 coastlines, structures and basemap &copy; OpenStreetMap contributors. Flags are candidates for review, not accusations.</div></footer>
 <script>(function(){const e=document.getElementById('utc');const t=()=>e.textContent=new Date().toISOString().slice(11,19);t();setInterval(t,1000);})();</script>

diff --git a/docs/demo/index.html b/docs/demo/index.html
@@ -83,7 +83,7 @@ footer{border-top:1px solid var(--line);padding:18px 0 28px;font:12px/1.6 var(--
   <div><div class="kicker">SAR &times; AIS &middot; MARITIME AWARENESS</div><div class="title">DARK VESSEL <b>DETECTION</b></div></div></a>
  <div class="status"><span class="pill"><span class="dot live"></span>AIS FEED <strong>LIVE</strong></span>
   <span class="pill">UTC <strong id="utc">--:--:--</strong></span>
-  <span class="pill">UPDATED <strong>03 Nov 03:26</strong></span></div>
+  <span class="pill">UPDATED <strong>03 Nov 03:40</strong></span></div>
 </div><nav class="tabs"><a class="" href="../index.html">OVERVIEW</a><a class="" href="../mumbai/index.html">MUMBAI</a><a class="" href="../denmark/index.html">DENMARK</a><a class="" href="../nn/index.html">NEURAL NET</a><a class="on" href="../demo/index.html">SIMULATION</a></nav></div></header>
 <main class="wrap"><div class="coords">SIMULATION // SYNTHETIC SCENES WITH KNOWN GROUND TRUTH</div>
 <h1>Simulation: the whole pipeline with a known answer</h1>

diff --git a/docs/nn/index.html b/docs/nn/index.html
@@ -83,7 +83,7 @@ footer{border-top:1px solid var(--line);padding:18px 0 28px;font:12px/1.6 var(--
   <div><div class="kicker">SAR &times; AIS &middot; MARITIME AWARENESS</div><div class="title">DARK VESSEL <b>DETECTION</b></div></div></a>
  <div class="status"><span class="pill"><span class="dot live"></span>AIS FEED <strong>LIVE</strong></span>
   <span class="pill">UTC <strong id="utc">--:--:--</strong></span>
-  <span class="pill">UPDATED <strong>03 Nov 03:26</strong></span></div>
+  <span class="pill">UPDATED <strong>03 Nov 03:40</strong></span></div>
 </div><nav class="tabs"><a class="" href="../index.html">OVERVIEW</a><a class="" href="../mumbai/index.html">MUMBAI</a><a class="" href="../denmark/index.html">DENMARK</a><a class="on" href="../nn/index.html">NEURAL NET</a><a class="" href="../demo/index.html">SIMULATION</a></nav></div></header>
 <main class="wrap"><div class="coords">NEURAL NETWORK // SHIPCNN</div>
 <h1>ShipCNN: our own convolutional network that decides "is this a ship?"</h1>
